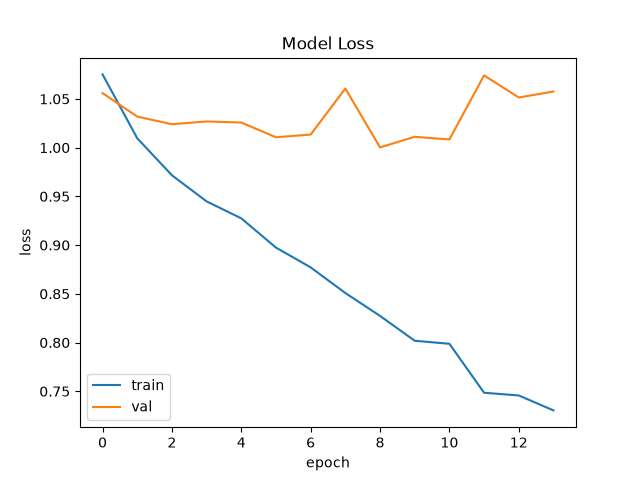
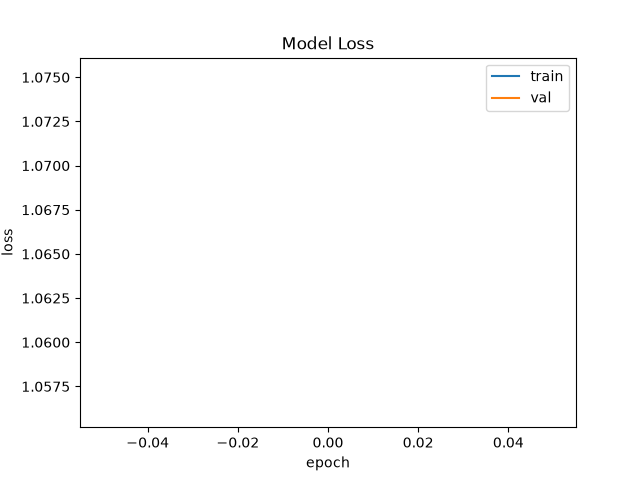
dfcdd

diff --git a/run.py b/run.py
@@ -158,8 +158,8 @@ def trainStep(model,dataLoader,testLoader,metric,testMetric,lossFunction,testLos
   valLossArr.append(validNormLoss.cpu().item())
   accArr.append(epochAccuracy.cpu().item())
   valAccArr.append(epochValidationAccuary.cpu().item())
-  testpressArr.append(epochValidationPrecision.cpu().item())
-  testRecArr.append(epochValidationRecall.cpu().item())
+  testpressArr.append(epochValidationPrecision.cpu().numpy())
+  testRecArr.append(epochValidationRecall.cpu().numpy())
 
     
 
